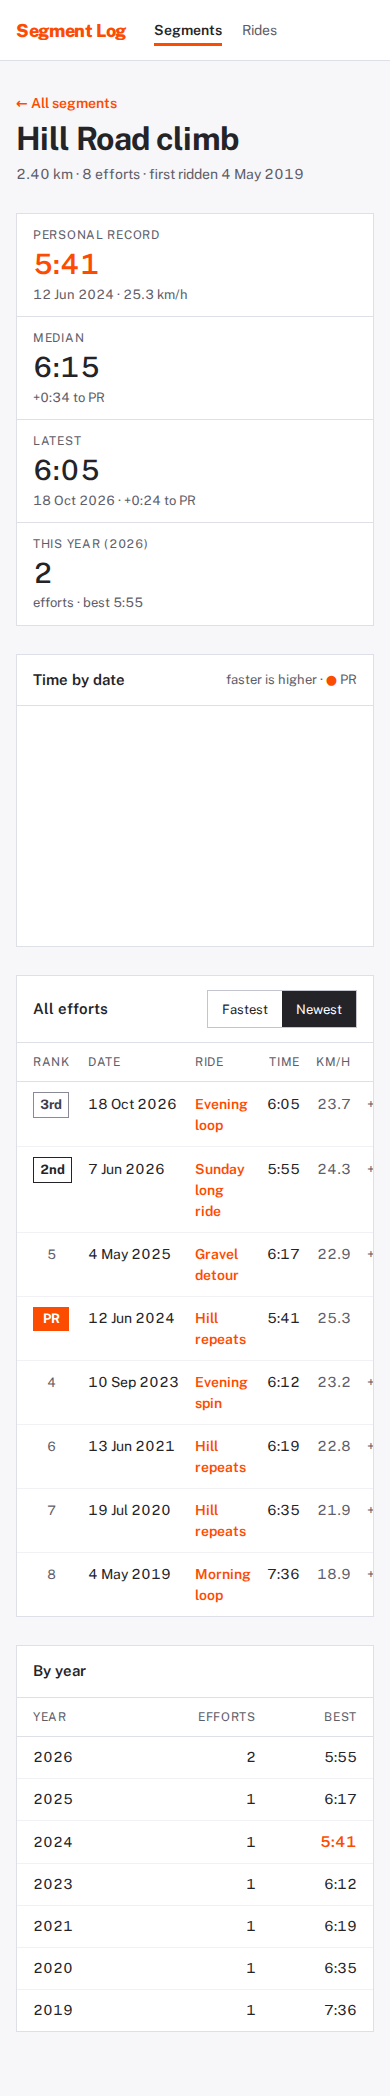
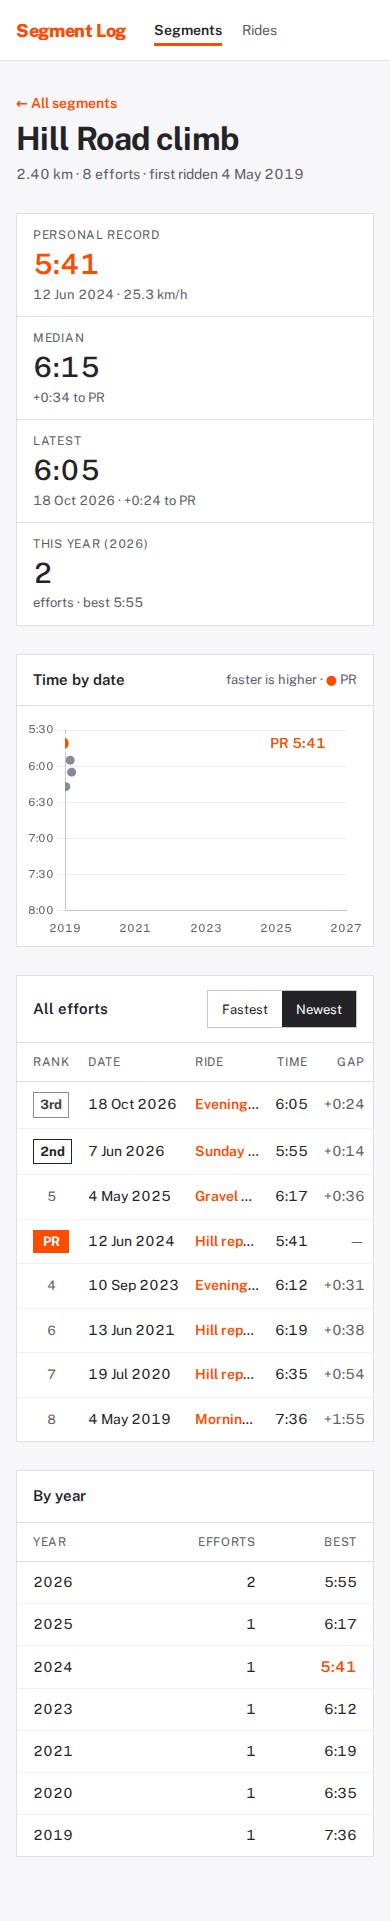
T-009: Review fixes: 14 px PR label, chart cleanup on route change, mobile table, year tick skipping, prOf
Claude-Session: https://claude.ai/code/session_01FuUnsNEdjvNmCKy6S3ycms

diff --git a/web/src/lib/segment-data.ts b/web/src/lib/segment-data.ts
@@ -59,6 +59,11 @@ export function medianSeconds(efforts: readonly Effort[]): number {
   return Math.round(t.length % 2 === 1 ? (t[mid] ?? 0) : ((t[mid - 1] ?? 0) + (t[mid] ?? 0)) / 2);
 }
 
+/** The fastest effort (the PR), or undefined without efforts. */
+export function prOf(efforts: readonly Effort[]): Effort | undefined {
+  return sortEfforts(efforts, "fastest")[0];
+}
+
 export interface Summary {
   pr: Effort;
   medianS: number;
@@ -96,13 +101,21 @@ export function metaLine(data: SegmentData): string {
 
 /** aria-label of the chart canvas (contract: contains "PR m:ss"). */
 export function chartLabel(efforts: readonly Effort[]): string {
-  const s = summarize(efforts, 0);
+  const pr = prOf(efforts);
+  const latest = sortEfforts(efforts, "newest")[0];
   const oldest = sortEfforts(efforts, "newest").at(-1);
-  if (!s || !oldest) return "No efforts";
+  if (!pr || !latest || !oldest) return "No efforts";
   const from = yearOf(oldest.start_t);
-  const to = yearOf(s.latest.start_t);
+  const to = yearOf(latest.start_t);
   const range = from === to ? `in ${from}` : `from ${from} to ${to}`;
-  return `Elapsed time for ${efforts.length} ${efforts.length === 1 ? "effort" : "efforts"} ${range}; PR ${formatDuration(s.pr.elapsed_s)} on ${formatDate(s.pr.start_t)}`;
+  return `Elapsed time for ${efforts.length} ${efforts.length === 1 ? "effort" : "efforts"} ${range}; PR ${formatDuration(pr.elapsed_s)} on ${formatDate(pr.start_t)}`;
+}
+
+/** Year ticks thinned to fit `width` px (about 44 px per label); always keeps the first year. */
+export function visibleYears(years: readonly number[], width: number): number[] {
+  const fit = Math.max(2, Math.floor(width / 44));
+  const stride = Math.max(1, Math.ceil(years.length / fit));
+  return years.filter((_, i) => i % stride === 0);
 }
 
 export interface ChartPoint {
@@ -126,8 +139,8 @@ const STEPS = [5, 10, 15, 30, 60, 120, 300, 600, 900, 1800, 3600, 7200];
 
 /** Chart data: efforts as points, the PR separate; axis ranges padded to round steps (~5 y ticks). */
 export function chartModel(efforts: readonly Effort[]): ChartModel | null {
-  const s = summarize(efforts, 0);
-  if (!s) return null;
+  const pr = prOf(efforts);
+  if (!pr) return null;
   const toPoint = (e: Effort): ChartPoint => ({
     x: e.start_t * 1000,
     y: e.elapsed_s,
@@ -144,10 +157,10 @@ export function chartModel(efforts: readonly Effort[]): ChartModel | null {
   const lastYear = yearOf(Math.max(...efforts.map((e) => e.start_t)));
   const years: number[] = [];
   for (let y = firstYear; y <= lastYear + 1; y++) years.push(y);
-  const prIndex = efforts.indexOf(s.pr);
+  const prIndex = efforts.indexOf(pr);
   return {
     efforts: efforts.filter((_, i) => i !== prIndex).map(toPoint),
-    pr: toPoint(s.pr),
+    pr: toPoint(pr),
     xMin: Date.UTC(firstYear, 0, 1),
     xMax: Date.UTC(lastYear + 1, 0, 1),
     yMin,

diff --git a/web/src/pages/segment.ts b/web/src/pages/segment.ts
@@ -1,4 +1,5 @@
 import { cell, dataTable, panel, tableRow } from "../lib/components";
+import { onLeave } from "../lib/cleanup";
 import { fetchJson, NotFoundError } from "../lib/data";
 import { h } from "../lib/dom";
 import { formatDate, formatDuration, formatKm } from "../lib/format";
@@ -26,8 +27,6 @@ import { renderNotFound } from "./not-found";
 export type { Effort, SegmentData } from "../lib/segment-data";
 
 const EFFORTS_SHOWN = 12;
-
-let destroyChart: (() => void) | null = null;
 
 function backLink(): HTMLElement {
   return h(
@@ -103,7 +102,9 @@ function effortRow(e: Effort): HTMLElement {
   return tableRow([
     cell(badge(e.rank)),
     cell(formatDate(e.start_t)),
-    cell(h("a", { href: rideHref(e.activity_id) }, e.ride_name), { className: "cell-name" }),
+    cell(h("a", { href: rideHref(e.activity_id), title: e.ride_name }, e.ride_name), {
+      className: "cell-ride",
+    }),
     cell(formatDuration(e.elapsed_s), { numeric: true }),
     cell(formatKm(e.avg_kmh), { numeric: true, className: "muted" }),
     cell(formatGap(e.gap_to_pr_s), { numeric: true, className: "muted" }),
@@ -224,8 +225,8 @@ export function renderSegmentData(root: HTMLElement, data: SegmentData, year?: n
   );
   // Chart.js is a separate chunk, loaded only on this page; the table and summary show meanwhile.
   void import("../lib/segment-chart").then(({ mountSegmentChart }) => {
-    if (chart.canvas.isConnected)
-      destroyChart = mountSegmentChart(chart.canvas, model, data.efforts);
+    // main.ts runs the registered cleanup when the route changes.
+    if (chart.canvas.isConnected) onLeave(mountSegmentChart(chart.canvas, model, data.efforts));
   });
 }
 
@@ -240,9 +241,6 @@ async function generatedYear(): Promise<number | undefined> {
 }
 
 export function renderSegment(root: HTMLElement, slug: string): void {
-  // Synchronous: a lazy import here could resolve after the new chart is mounted and destroy it.
-  destroyChart?.();
-  destroyChart = null;
   const status = (text: string): void =>
     root.replaceChildren(
       h("h1", {}, "Segment"),

diff --git a/web/src/lib/segment-chart.ts b/web/src/lib/segment-chart.ts
@@ -10,7 +10,7 @@ import {
   type Plugin,
 } from "chart.js";
 import { formatDate, formatDuration } from "./format";
-import { chartLabel, type ChartModel, type Effort } from "./segment-data";
+import { chartLabel, visibleYears, type ChartModel, type Effort } from "./segment-data";
 
 Chart.register(ScatterController, LinearScale, PointElement, Tooltip);
 
@@ -40,7 +40,7 @@ function prLabelPlugin(model: ChartModel): Plugin<"scatter"> {
       const left = x > chartArea.left + (chartArea.right - chartArea.left) * 0.75;
       ctx.save();
       ctx.fillStyle = ORANGE;
-      ctx.font = `600 13px ${FONT}`;
+      ctx.font = `600 14px ${FONT}`;
       ctx.textBaseline = "middle";
       ctx.textAlign = left ? "right" : "left";
       ctx.fillText(`PR ${formatDuration(model.pr.y)}`, x + (left ? -14 : 14), y);
@@ -96,7 +96,9 @@ export function mountSegmentChart(
           border: { color: AXIS },
           grid: { display: false },
           afterBuildTicks(scale) {
-            scale.ticks = model.years.map((y) => ({ value: Date.UTC(y, 0, 1), label: String(y) }));
+            scale.ticks = visibleYears(model.years, scale.maxWidth || scale.chart.width).map(
+              (y) => ({ value: Date.UTC(y, 0, 1), label: String(y) }),
+            );
           },
           ticks: {
             ...tick,

diff --git a/web/src/lib/segment-data.test.ts b/web/src/lib/segment-data.test.ts
@@ -5,6 +5,8 @@ import {
   formatGap,
   medianSeconds,
   metaLine,
+  prOf,
+  visibleYears,
   rankLabel,
   sortEfforts,
   summarize,
@@ -118,5 +120,23 @@ describe("chartModel", () => {
   });
   it("is null without efforts", () => {
     expect(chartModel([])).toBeNull();
+  });
+});
+
+describe("prOf", () => {
+  it("is the fastest effort, undefined when empty", () => {
+    expect(prOf(efforts)?.activity_id).toBe("b");
+    expect(prOf([])).toBeUndefined();
+  });
+});
+
+describe("visibleYears", () => {
+  const years = [2019, 2020, 2021, 2022, 2023, 2024, 2025, 2026, 2027];
+  it("keeps all years when they fit", () => {
+    expect(visibleYears(years, 600)).toEqual(years);
+  });
+  it("thins out years on a narrow plot", () => {
+    expect(visibleYears(years, 280)).toEqual([2019, 2021, 2023, 2025, 2027]);
+    expect(visibleYears(years, 100)).toEqual([2019, 2024]);
   });
 });

diff --git a/web/src/main.ts b/web/src/main.ts
@@ -3,6 +3,7 @@ import { renderIndex } from "./pages/index";
 import { renderNotFound } from "./pages/not-found";
 import { renderRide } from "./pages/ride";
 import { renderSegment } from "./pages/segment";
+import { runCleanups } from "./lib/cleanup";
 import { parseRoute, type Route } from "./lib/router";
 
 /** Segments is current on the index and segment pages, Rides on the rides shortcut and ride pages. */
@@ -18,6 +19,7 @@ function markActiveNav(page: Route["page"]): void {
 function render(): void {
   const root = document.getElementById("app");
   if (!root) return;
+  runCleanups();
   const route = parseRoute(window.location.hash);
   switch (route.page) {
     case "index":

diff --git a/web/src/lib/cleanup.test.ts b/web/src/lib/cleanup.test.ts
@@ -1,0 +1,18 @@
+import { describe, expect, it, vi } from "vitest";
+import { onLeave, runCleanups } from "./cleanup";
+
+describe("cleanup hooks", () => {
+  it("runs registered hooks once, in order, and then forgets them", () => {
+    const calls: string[] = [];
+    onLeave(() => calls.push("a"));
+    onLeave(() => calls.push("b"));
+    runCleanups();
+    runCleanups();
+    expect(calls).toEqual(["a", "b"]);
+  });
+  it("does nothing without hooks", () => {
+    const fn = vi.fn();
+    runCleanups();
+    expect(fn).not.toHaveBeenCalled();
+  });
+});

diff --git a/web/src/styles/segment.css b/web/src/styles/segment.css
@@ -150,3 +150,21 @@
   font-size: 15px;
   font-weight: 600;
 }
+
+.cell-ride {
+  max-width: 260px;
+  overflow: hidden;
+  text-overflow: ellipsis;
+}
+
+@media (max-width: 479px) {
+  /* Narrow screens: one-line ride names and no km/h column, so Gap stays visible without scrolling. */
+  .cell-ride {
+    max-width: 80px;
+  }
+
+  .panel--efforts th:nth-child(5),
+  .panel--efforts td:nth-child(5) {
+    display: none;
+  }
+}

diff --git a/web/src/lib/cleanup.ts b/web/src/lib/cleanup.ts
@@ -1,0 +1,11 @@
+// Per-route cleanup: a page registers what must be torn down when the user leaves it (e.g. a
+// Chart.js instance); main.ts runs them all before rendering the next route.
+const cleanups: (() => void)[] = [];
+
+export function onLeave(fn: () => void): void {
+  cleanups.push(fn);
+}
+
+export function runCleanups(): void {
+  for (const fn of cleanups.splice(0)) fn();
+}
